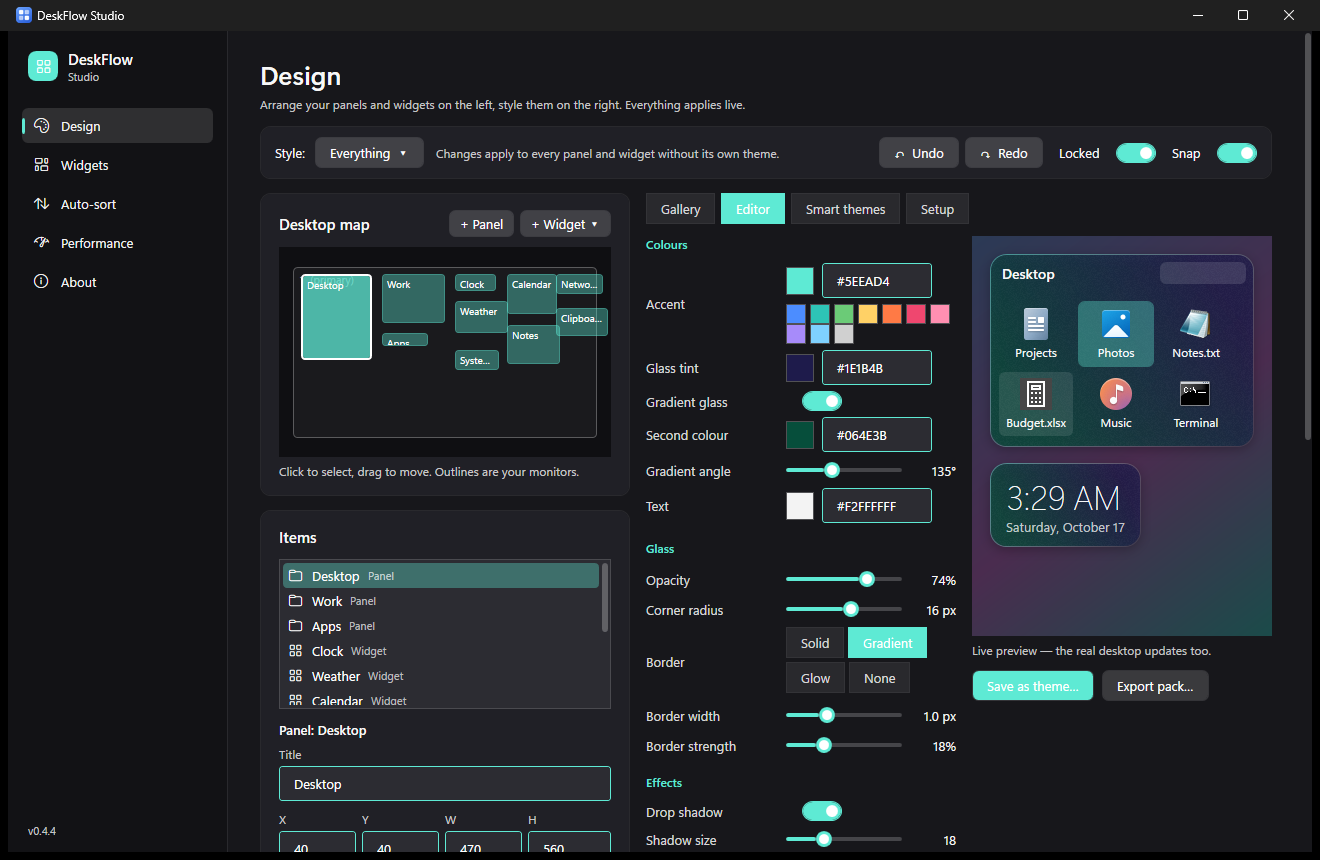
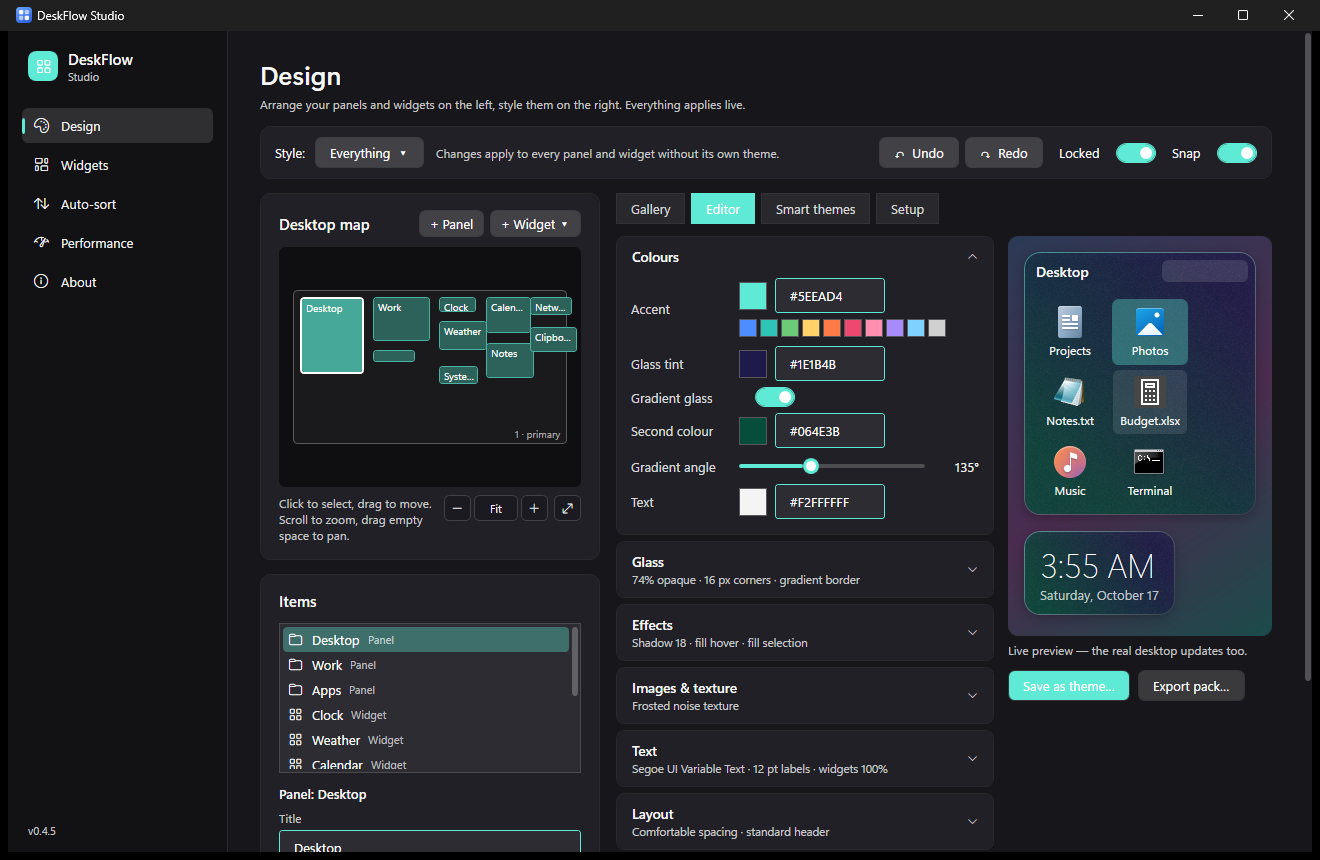
docs: DeskFlow 0.4.5 product page with how to use guide and captions

diff --git a/README.md b/README.md
@@ -20,6 +20,9 @@ Glass panels and widgets that live right on your wallpaper — and still behave 
 ### [⬇ Download the latest version](https://github.com/Silverfox0338/DeskFlow-Releases/releases/latest)
 
 <img src="images/hero.png" alt="DeskFlow panels and widgets on the desktop" />
+<br/>
+<sub>A Desktop panel, a Work panel with its own photo theme and tabs, an app dock, and widgets for the clock,
+weather, system stats, clipboard, calendar and notes.</sub>
 
 </div>
 
@@ -48,6 +51,9 @@ arrange your real files into scrollable glass panels and put useful widgets wher
 
 <div align="center">
 <img src="images/panels.png" width="760" alt="DeskFlow panel with tabs, a themed panel and a dock" />
+<br/>
+<sub>Left: your Desktop in a glass panel. Right: a panel with tabs (Work / Invoices) and its own photo
+background, and below it a compact dock with its own glowing theme.</sub>
 </div>
 
 **Widgets**
@@ -60,10 +66,15 @@ arrange your real files into scrollable glass panels and put useful widgets wher
 
 <div align="center">
 <img src="images/widgets.png" alt="DeskFlow widgets: weather, calendar, notes, network and clipboard" />
+<br/>
+<sub>Weather with a 3-day forecast, network &amp; battery, a clock with its own photo, the calendar,
+clipboard history and notes.</sub>
 </div>
 
 **DeskFlow Studio**
 - A full editor for your layout: a live map of your monitors, exact positions, grid size and snapping.
+- The map **zooms and pans** (scroll to zoom, drag to pan) and can **expand to the full page**, so
+  even a crowded, multi-monitor layout stays easy to work with.
 - Live grid snapping and **smart guides** that line things up with each other while you drag
   (hold <kbd>Alt</kbd> to place freely, <kbd>Esc</kbd> to cancel), plus **undo/redo** for every layout change.
 - **Monitor profiles**: plug in your second screen and your two-monitor layout comes back by itself.
@@ -77,6 +88,7 @@ arrange your real files into scrollable glass panels and put useful widgets wher
   your **wallpaper's colours**.
 - A pro **theme editor** with a large live preview: gradient glass, solid, gradient or glowing borders,
   shadows, hover and selection styles, fonts and text sizes, density, header styles and widget scale.
+  Settings are grouped in collapsible sections that summarise themselves, so a whole theme fits on one screen.
 - **Your own images** behind panels and widgets, with visibility, blur and darken controls, plus
   subtle textures (noise, paper, carbon and more). Give a single widget its own photo, too.
 - **Smart themes** follow Windows light/dark mode or switch between a day and a night theme on a
@@ -85,8 +97,14 @@ arrange your real files into scrollable glass panels and put useful widgets wher
 
 <div align="center">
 <img src="images/studio-themes.png" width="760" alt="DeskFlow Studio theme gallery with live preview cards" />
+<br/>
+<sub><b>Design → Gallery.</b> Every card is a live preview of the theme. Filter by category, click one to use it,
+or right-click to edit, export or delete it.</sub>
 <br/><br/>
 <img src="images/studio-editor.png" width="760" alt="DeskFlow Studio theme editor with a live preview" />
+<br/>
+<sub><b>Design → Editor.</b> The desktop map and item list on the left; the theme editor's sections in the middle
+(Colours open, the rest summarised); the live preview on the right.</sub>
 </div>
 
 **Plays nicely with Windows**
@@ -106,13 +124,57 @@ arrange your real files into scrollable glass panels and put useful widgets wher
 
 Each release also includes a `.sha256` file if you'd like to verify your download.
 
-## Getting started
+## How to use
 
-- **Right-click the tray icon** for everything: add panels and widgets, lock/unlock the layout, themes, settings.
-- **Unlock the layout** to move things around — drag a panel by its header and resize it from the corner.
-  Double-click the tray icon to toggle the lock quickly.
-- Open **DeskFlow Studio** from the tray for exact positioning, grid options and the theme gallery and editor.
-- Right-click a panel's empty space for New folder, Paste, Sort by and Icon size; right-click a widget for its settings.
+### 1. First run
+DeskFlow starts in your system tray with one panel showing your Desktop. Your normal desktop icons are
+hidden while it runs (they come back when you exit). **Right-click the tray icon** for everything below;
+**double-click it** to lock or unlock the layout.
+
+### 2. Arrange your desktop
+- Choose **Unlock layout** in the tray menu. Drag a panel or widget by its header and resize a panel from its
+  corner. Things snap to the grid and line up with each other; hold <kbd>Alt</kbd> to place freely and press
+  <kbd>Esc</kbd> to cancel a drag.
+- Choose **Lock layout** when you're done, so nothing moves by accident.
+- Made a mistake? **Undo layout change** in the tray, or <kbd>Ctrl</kbd> + <kbd>Z</kbd> in Studio.
+- For exact positions, open **Open Studio… → Design**. Click an item on the map or in the list, then type its
+  X / Y / W / H. Scroll on the map to zoom, drag empty space to pan, and use the expand button for a full-width map.
+
+### 3. Panels
+- **Add panel…** in the tray creates a new panel. Right-click its empty space → **Panel → Edit source folders…**
+  to choose which folders it shows (one panel can combine several).
+- Right-click empty space for **New folder**, **Paste**, **Sort by** and **Icon size**.
+- **Tabs**: right-click → **Tabs → Add tab…** to keep several folders in one panel (Desktop, Projects, Paperwork…).
+- **Dock**: right-click → **Layout → Dock (compact row of icons)** turns a panel into a slim app bar.
+- Files behave like real desktop icons: double-click, the full Windows right-click menu, drag in and out, <kbd>F2</kbd>
+  to rename, <kbd>Del</kbd> for the Recycle Bin, and type to search.
+
+### 4. Widgets
+- **Add widget** in the tray, or browse them all in **Studio → Widgets**.
+- Right-click a widget for its **Settings** (your city for the weather, the clock format and so on) and for
+  **Background** to put your own photo behind just that widget.
+
+### 5. Make it yours
+- **Studio → Design → Gallery**: click any theme to use it. **Use my wallpaper** creates themes from your
+  wallpaper's colours.
+- **Editor**: fine-tune colours, glass, borders, shadows, images, textures, fonts and spacing. Open one section at a
+  time; the others show a short summary. Everything previews instantly and applies to your desktop as you go.
+- **Style one panel differently**: select it on the map and click **Style this panel** (or right-click the panel →
+  **Theme → Customize this panel…**). **Use global theme** puts it back.
+- **Smart themes**: follow Windows light/dark mode, or switch between a day and a night theme on a schedule.
+- **Share a look**: **Save as theme…**, then **Export pack…** gives you a `.deskflow-theme` file with its images
+  included. Friends open it with **Import…** in the gallery.
+
+### 6. Keep it tidy automatically
+**Studio → Auto-sort** moves new files into the right place for you, for example screenshots into
+Pictures\Screenshots or installers into Downloads\Installers. Rules never overwrite a file.
+
+### 7. Handy extras
+- <kbd>Win</kbd> + <kbd>D</kbd> brings the whole layer forward; click back into an app and it drops behind again.
+- **Peek hotkey**: set one in **Studio → Design → Setup** to pop your panels and widgets above every window and back.
+- **Monitor profiles** (Setup tab) remember a layout per monitor setup, so docking your laptop restores your
+  two-screen arrangement by itself.
+- **Export layout… / Import layout…** (Setup tab) moves your whole setup to another PC.
 
 ## Requirements
 

diff --git a/CHANGELOG.md b/CHANGELOG.md
@@ -2,6 +2,23 @@
 
 Every DeskFlow release and what changed. The newest release is at the top.
 
+## v0.4.5
+
+Studio's Design page is easier to work in, especially with many items or monitors.
+
+- **Desktop map you can zoom**: scroll on the map to zoom in where you point, or use the − / + buttons,
+  which zoom in on the selected item. Drag empty space to pan; **Fit** (or a double-click) shows
+  everything again.
+- **Bigger map**: the expand button gives the map the whole page width for laying out large or
+  multi-monitor setups. Click it again to bring the style side back.
+- **Clearer map**: small widgets are drawn on top of panels so they're never hidden, labels no longer
+  show through each other, and monitor numbers sit in the corner out of the way.
+- **Theme editor in collapsible sections**: Colours, Glass, Effects, Images & texture, Text and
+  Layout open one at a time. Closed sections show a one-line summary of their settings, so the whole
+  theme fits on screen without scrolling.
+- **More room for each setting**: choice buttons are more compact (Border fits on one line), and the
+  live preview stays in view while you scroll.
+
 ## v0.4.4
 
 Pro theme overhaul. Studio's Layout and Themes pages are now a single **Design** workspace.
